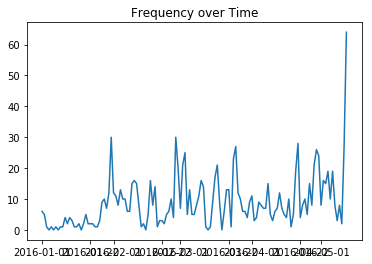
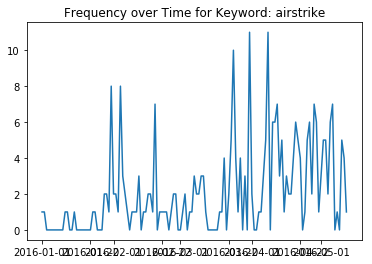
Initial Commit

diff --git a/test.html b/test.html
@@ -4,6 +4,7 @@
 
 <img src="images/freq.png" alt="HTML5 Icon">
 <img src="images/vel.png" alt="HTML5 Icon">
+<h4>Similar Words to Keyword: airstrike</h4>
 <style type="text/css">
 .tg  {border-collapse:collapse;border-spacing:0;}
 .tg td{font-family:Arial, sans-serif;font-size:14px;padding:10px 5px;border-style:solid;border-width:1px;overflow:hidden;word-break:normal;border-color:black;}
@@ -13,28 +14,34 @@
 </style>
 <table class="tg">
   <tr>
-    <td class="tg-0pky">ramadi</td>
+    <td class="tg-0pky">airstrikes</td>
   </tr>
   <tr>
-    <td class="tg-0pky">mass</td>
+    <td class="tg-0pky">yesterday</td>
   </tr>
   <tr>
-    <td class="tg-0pky">paying</td>
+    <td class="tg-0pky">aftermath</td>
   </tr>
   <tr>
-    <td class="tg-0pky">baghdad</td>
+    <td class="tg-0pky">strike</td>
   </tr>
   <tr>
-    <td class="tg-0lax">militias</td>
+    <td class="tg-0lax">bakery</td>
   </tr>
   <tr>
-    <td class="tg-0lax">iraqi</td>
+    <td class="tg-0lax">today</td>
   </tr>
   <tr>
-    <td class="tg-0lax">afghanistan</td>
+    <td class="tg-0lax">strikes</td>
   </tr>
   <tr>
-    <td class="tg-0lax">dagestan</td>
+    <td class="tg-0lax">civilian</td>
+  </tr>
+  <tr>
+    <td class="tg-0lax">caused</td>
+  </tr>
+  <tr>
+    <td class="tg-0lax">massacre</td>
   </tr>
 </table>
 
